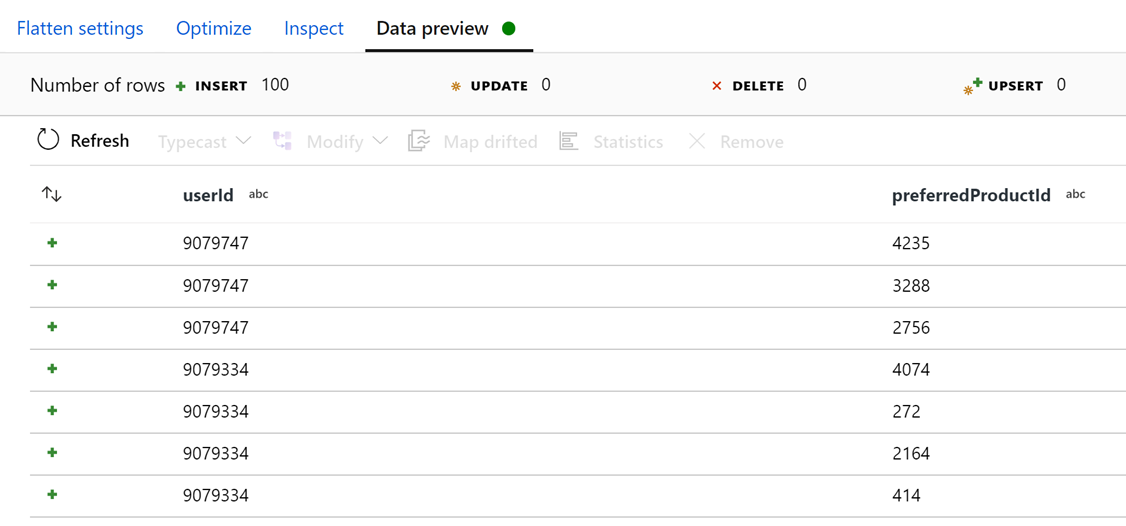
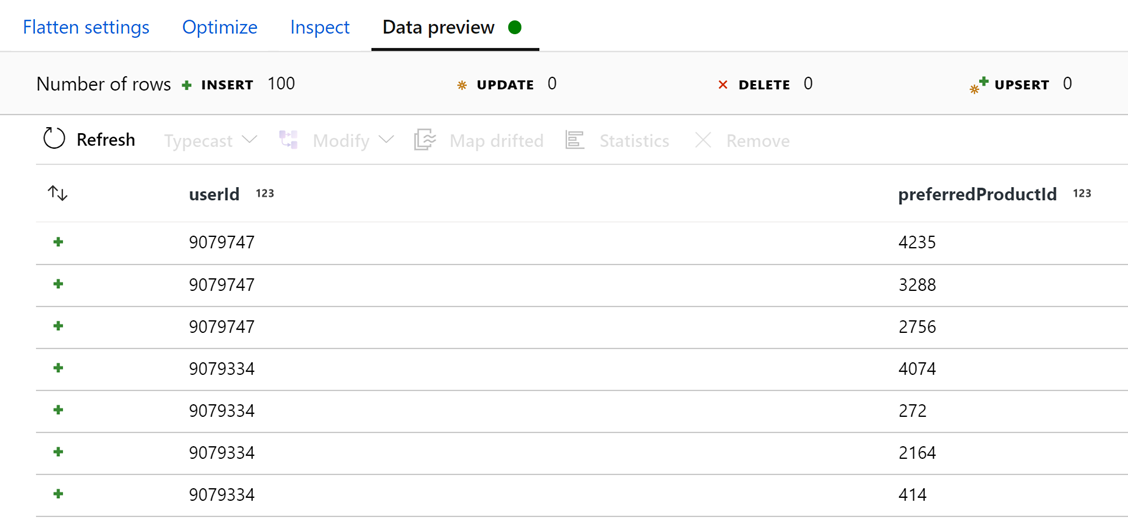
Updates to lab 2

diff --git a/day-01/lab02-data-integration-part-2.md b/day-01/lab02-data-integration-part-2.md
@@ -550,15 +550,19 @@ Now that the pipeline run is complete, let's take a look at the SQL table to ver
 
     ![The source settings are configured as described.](media/data-flow-user-profiles-source2-settings.png "Source settings")
 
-17. Select **Data preview** and select **Refresh** to display the data. Select a row under the `preferredProducts` column to see an expanded view of the array.
+17. Select **Projection** and inspect the inferred schema. If the `preferredProducts` type is not identified as an integer array (`[] integer`), select **Import projection**.
+
+    ![The import projection button and preferredProducts row are highlighted.](media/data-flow-user-profiles-source2-projection.png "Projection")
+
+18. Select **Data preview** and select **Refresh** to display the data. Select a row under the `preferredProducts` column to see an expanded view of the array.
 
     ![The data preview tab is displayed with a sample of the file contents.](media/data-flow-user-profiles-data-preview2.png "Data preview")
 
-18. Select the **+** to the right of the `UserProfiles` source, then select the **Flatten** schema modifier from the context menu.
+19. Select the **+** to the right of the `UserProfiles` source, then select the **Flatten** schema modifier from the context menu.
 
     ![The plus sign and the Flatten schema modifier are highlighted.](media/data-flow-user-profiles-new-flatten2.png "New Flatten schema modifier")
 
-19. Under **Flatten settings**, configure the following:
+20. Under **Flatten settings**, configure the following:
 
     - **Output stream name**: Enter `UserPreferredProducts`.
     - **Incoming stream**: Select `UserProfiles`.
@@ -572,9 +576,66 @@ Now that the pipeline run is complete, let's take a look at the SQL table to ver
 
     ![The flatten settings are configured as described.](media/data-flow-user-profiles-flatten2-settings.png "Flatten settings")
 
-20. Select **Data preview** and select **Refresh** to display the data. You should now see a flattened view of the data source with one or more rows per `userId`.
+21. Select **Data preview** and select **Refresh** to display the data. You should now see a flattened view of the data source with one or more rows per `userId`.
 
     ![The data preview tab is displayed with a sample of the file contents.](media/data-flow-user-profiles-flatten2-data-preview.png "Data preview")
+
+22. Now it is time to join the two data sources. Select the **+** to the right of the `DeriveProductColumns` step, then select the **Join** option from the context menu.
+
+    ![The plus sign and new Join menu item are highlighted.](media/data-flow-user-profiles-new-join.png "New Join")
+
+23. Under **Join settings**, configure the following:
+
+    - **Output stream name**: Enter `JoinTopProductsWithPreferredProducts`.
+    - **Left stream**: Select `DeriveProductColumns`.
+    - **Right stream**: Select `UserPreferredProducts`.
+    - **Join type**: Select `Full outer`.
+    - **Join conditions**: Provide the following information:
+
+        | Left: DeriveProductColumns's column | Right: UserPreferredProducts's column |
+        | --- | --- |
+        | `visitorId` | `userId` |
+
+    ![The join settings are configured as described.](media/data-flow-user-profiles-join-settings.png "Join settings")
+
+24. Select **Optimize** and configure the following:
+
+    - **Broadcast**: Check `Left: 'DeriveProductColumns'`.
+    - **Partition option**: Select `Set partitioning`.
+    - **Partition type**: Select `Hash`.
+    - **Number of partitions**: Enter `30`.
+    - **Column**: Select `productId`.
+
+    ![The join optimization settings are configured as described.](media/data-flow-user-profiles-join-optimize.png "Optimize")
+
+    Optimization description.
+
+25. Select the **Inspect** tab to see the join mapping, including the column feed source and whether the column is used in a join.
+
+    ![The inspect blade is displayed.](media/data-flow-user-profiles-join-inspect.png "Inspect")
+
+26. Select **Data preview** and select **Refresh** to display the data. In this small sample of data, likely the `userId` and `preferredProductId` columns will only show null values. If you want to get a sense of how many records contain values for these fields, select a column, such as `preferredProductId`, then select **Statistics** in the toolbar above. This displays a chart for the column showing the ratio of values.
+
+    ![The data preview results are shown and the statistics for the preferredProductId column is displayed as a pie chart to the right.](media/data-flow-user-profiles-join-preview.png "Data preview")
+
+27. Select the **+** to the right of the `JoinTopProductsWithPreferredProducts` step, then select the **Derived Column** schema modifier from the context menu.
+
+    ![The plus sign and Derived Column schema modifier are highlighted.](media/data-flow-user-profiles-new-derived-column3.png "New Derived Column")
+
+28. Under **Derived column's settings**, configure the following:
+
+    - **Output stream name**: Enter `DerivedColumnsForMerge`.
+    - **Incoming stream**: Select `JoinTopProductsWithPreferredProducts`.
+    - **Columns**: Provide the following information:
+
+        | Column | Expression | Description |
+        | --- | --- | --- |
+        | isTopProduct | `toBoolean(iif(isNull(productId), 'false', 'true'))` | Returns `true` if `productId` is not null. Recall that `productId` is fed by the e-commerce top user products data lineage. |
+        | isPreferredProduct | `toBoolean(iif(isNull(preferredProductId), 'false', 'true'))` | Returns `true` if `preferredProductId` is not null. Recall that `preferredProductId` is fed by the Azure Cosmos DB user profile data lineage. |
+        | productId | `iif(isNull(productId), preferredProductId, productId)` | Sets the `productId` output to either the `preferredProductId` or `productId` value, depending on whether `productId` is null.
+        | userId | `iif(isNull(userId), visitorId, userId)` | Sets the `userId` output to either the `visitorId` or `userId` value, depending on whether `userId` is null.
+
+    ![The derived column's settings are configured as described.](media/data-flow-user-profiles-derived-column3-settings.png "Derived column's settings")
 
 ## Exercise 5: Create pipeline trigger window to import remaining Parquet data
 
